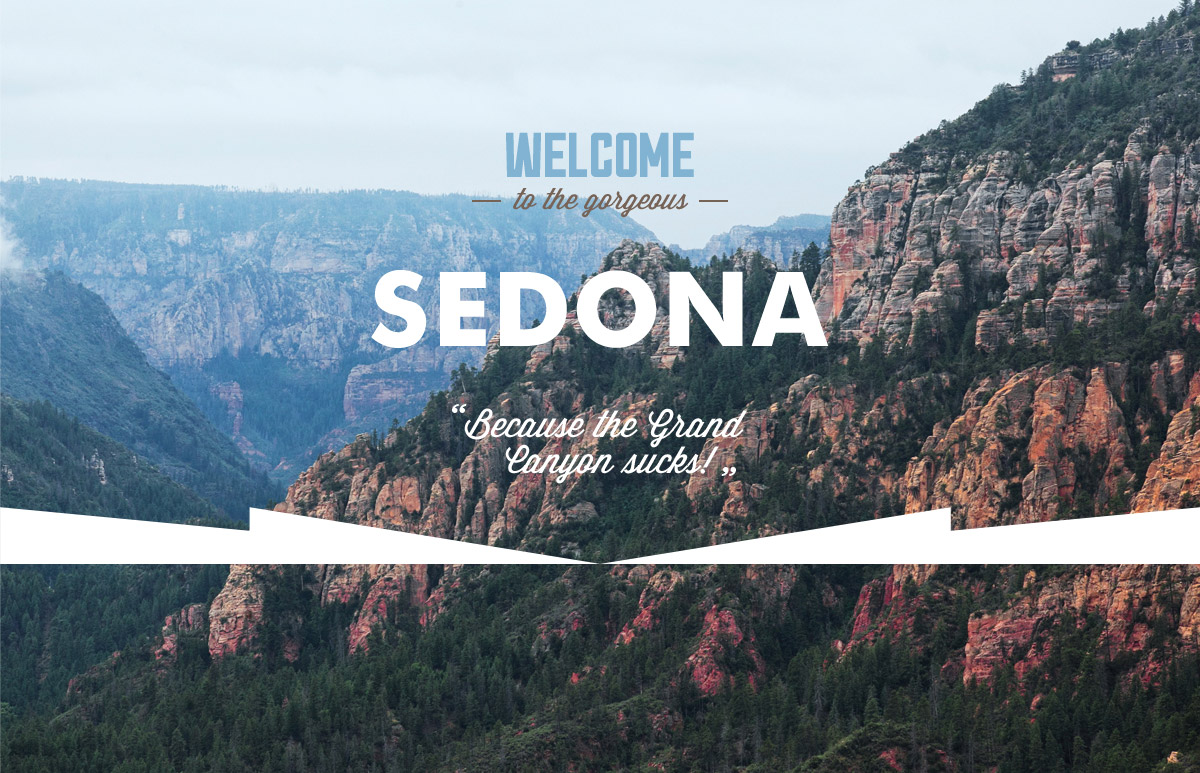
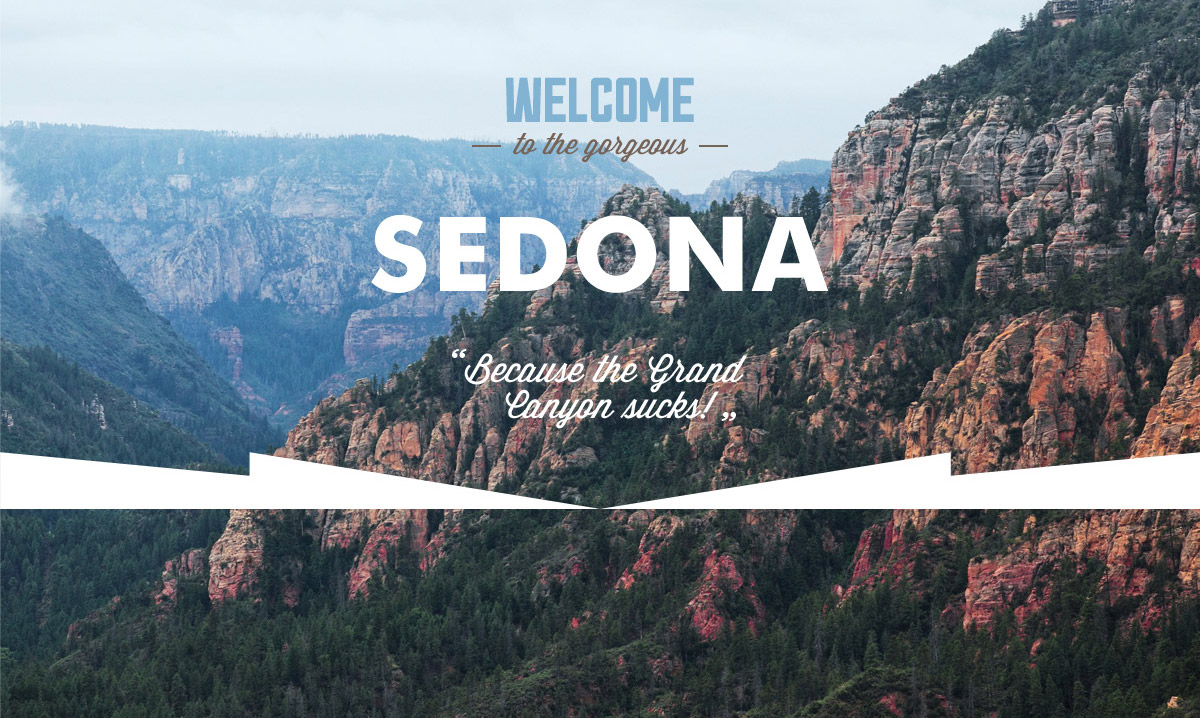
Седьмое задание

diff --git a/css/style.css b/css/style.css
@@ -117,9 +117,7 @@ main p {
 
 .site-navigation {
 	margin: 0;
-	padding-top: 13px;
-    padding-bottom: 17px;
-	padding-left: 0px;
+	padding: 14px 72px;
 	display: flex;
 	justify-content: space-between;
     line-height: 26px;
@@ -130,7 +128,6 @@ main p {
 }
 
 .site-navigation li:first-child {
-	padding-left: 72px;
 }
 
 .site-navigation li:nth-child(2) {
@@ -141,7 +138,7 @@ main p {
 	text-align: right;
 }
 
-.navigation-list li:last-child {
+.site-navigation li:last-child {
 	text-align: right;
 }
 
@@ -153,10 +150,6 @@ main p {
 	color: #000000;
 	display: block;
 	vertical-align: middle;
-}
-
-.main-navigation a {
-	position: absolute;
 }
 
 .site-navigation a:hover, .main-navigation a:hover {
@@ -173,7 +166,7 @@ main p {
 }
 
 .intro-logo {
-	min-height: 564px;
+	min-height: 508px;
 	background-image: url("../img/background-all.jpg");
 	background-repeat: no-repeat;
 	background-color: #ffffff;
@@ -443,6 +436,7 @@ main p {
 
 .hotel-search .search {
 	width: 456px;
+	padding: 15px 50px;
 	background-color: #81b3d2;
 	color: #ffffff;
 	font-size: 21px;
@@ -468,18 +462,34 @@ main p {
 }
 
 .date {
-	width: 568px;
-	height: 396px;
 	position: absolute;
+	margin-bottom: auto;
 	top: 86px;
+	padding: 55px;
 	left: 50%;
 	transform: translateX(-50%);
-	display: flex;
-	flex-wrap: wrap;
-	justify-content: space-between;
-	flex-direction: column;
 	background-color: #ffffff;
-	box-shadow: 0 0 15px 5px rgba(0, 1, 1, 0.2);
+}
+
+.date-check {
+	margin-bottom: 25px;
+	display: flex;
+	justify-content: space-between;
+	align-items: center;
+}
+
+.date-placeholder {
+	position: relative;
+}
+
+.calendar {
+	background: none;
+	box-shadow: none;
+	border: none;
+	position: absolute;
+	right: 0;
+	top: 50%;
+	transform: translateY(-50%);
 }
 
 .date input {
@@ -511,10 +521,18 @@ main p {
 .date #date-checkin, .date #date-checkout {
 	width: 330px;
 	padding-left: 14px;
+	padding-right: 38px;
 }
 
 .date p {
 	color: #000000;
+}
+
+.number {
+	margin-bottom: 55px;
+	display: flex;
+	justify-content: space-between;
+	align-items: center;
 }
 
 .number .adults, .number .children {
@@ -528,24 +546,76 @@ main p {
 }
 
 /* ===== MAIN = Hotels ===== */
+.filter {
+	display: flex;
+	flex-wrap: wrap;
+	padding: 25px 70px 0;
+}
+
+.filter fieldset {
+	margin: 0;
+	padding: 0;
+	width: 254px;
+	border: none;
+}
+
 .filters {
-	background-color: #e3f0f9;
+	width: 1200px;
+	min-height: 217px;
+	background-color: #669ec0;
 	background-image: url("../img/background-photo.jpg");
 	background-repeat: no-repeat;
+	background-position: center;
+	
 	color: #ffffff;
 }
 
-.filters li {
+.filter-list {
+	margin: 0;
+	position: relative;
 	list-style: none;
 }
 
+.filters li {
+	margin-bottom: 24px;
+}
+
 .filters legend {
+	margin-bottom: 28px;
 	font-size: 16px;
 	font-weight: bold;
 }
 
+.results-header {
+	display: flex;
+	flex-wrap: wrap;
+	margin-bottom: 30px;
+	padding: 0 70px;
+}
+
 .results-header li {
 	list-style: none;
+}
+
+.results-header .arrows {
+	padding-left: 0;
+	display: flex;
+}
+
+.arrows .btn img {
+	opacity: 0.3;
+	cursor: pointer;
+}
+
+.arrows .btn img:hover {
+	opacity: 1;
+}
+
+.results-sort-variants {
+	display: flex;
+    width: 816px;
+    vertical-align: bottom;
+    padding-top: 5px;
 }
 
 .results-sort-variants button {
@@ -577,6 +647,18 @@ main p {
 	list-style: none;
 }
 
+.hotels-list {
+	display: flex;
+    flex-direction: column;
+    padding: 0;
+}
+
+.hotel-item {
+	display: flex;
+	border-top: 1px solid #e5e5e5;
+    padding: 20px 70px 30px;
+}
+
 .site-navigation .site-navigation-current a {
 	color: #766357;
 }
@@ -605,10 +687,18 @@ main p {
 .footer-social {
 	list-style: none;
 	display: flex;
+	padding-left: 0;
 }
 
 .footer-social li {
 	margin-left: 6px;
+}
+
+.footer-social li a {
+	display: flex;
+	justify-content: center;
+	align-items: center;
+	vertical-align: middle;
 	background-color: #81b3d2;
 	width: 46px;
 	height: 48px;
@@ -618,10 +708,10 @@ main p {
 	margin-left: 0;
 }
 
-.footer-social li:hover {
+.footer-social li a:hover {
 	background-color: #669ec0;
 }
 
-.footer-social li:active {
+.footer-social li a:active {
 	background-color: #5496bd;
 } /* ===== И цвет самой иконки меняется. Как? Opacity? ===== */

diff --git a/index.html b/index.html
@@ -101,18 +101,23 @@
   	  <h2 class="title-2">Заинтересовались?</h2>
   		<p>Укажите предполагаемые даты поездки,<br>и мы покажем вам лучшие предложения гостиниц в Седоне</p>
   	<section class="hotel-search">	
-  	<button class="hotel-search-btn" type="submit">Поиск гостиницы в Седоне</button> <!--Это кнопка, верно?-->
+  	<button class="hotel-search-btn" type="submit">Поиск гостиницы в Седоне</button>
+<!-- -->  	<div class="modal modal-date state-open">
   	<form class="date" method="post" action="https://echo.htmlacademy.ru">
-  	  <p>
+  	  <div class="date-check">
   	  	<label for="date-checkin">Дата заезда:</label>
+  	  	<div class="date-placeholder">
   	  	<input id="date-checkin" type="text" name="date-checkin" value="" placeholder="24 апреля 2017">
-  	  	<img class="img-calendar" src="img/calendar.svg" width="21" height="22" alt="Календарь">
-  	  </p>
-  	  <p>
+  	  	<button class="calendar"><img class="img-calendar" src="img/calendar.svg" width="21" height="22" alt="Календарь"></button>
+  	  	</div>
+  	  </div>
+  	  <div class="date-check">
   	  	<label for="date-checkout">Дата заезда:</label>
+  	  	<div class="date-placeholder">
   	  	<input id="date-checkout" type="text" name="date-checkin" value="" placeholder="4 июля 2017">
-  	  	<img class="img-calendar" src="img/calendar.svg" width="21" height="22" alt="Календарь">
-  	  </p>
+  	  	<button class="calendar"><img class="img-calendar" src="img/calendar.svg" width="21" height="22" alt="Календарь"></button>
+		</div>
+  	  </div>
   	  <div class="number">
   	  	<label for="number-of-adults">Взрослые:</label>
   	  	  <button class="btn" name="minus-adult" type="button">-</button>
@@ -124,7 +129,8 @@
   	  	      <button class="btn" name="plus-child" type="button">+</button>
   	  </div>
   	  <button class="btn search" type="submit">Найти</button>
-  	</form>  	
+  	</form>
+<!-- -->  	</div>  	
   	</section>
   	<section class="map">
  	  <h2 class="title-2 visually-hidden">Седона на карте</h2>

diff --git a/hotels.html b/hotels.html
@@ -31,7 +31,7 @@
 	  <form class="filter" method="get" action=https://echo.htmlacademy.ru>
     <fieldset>
 	  <legend>Инфраструктура:</legend>
-	      <ul>
+	      <ul class="filter-list">
 	        <li>
 	          <input class="visually-hidden" type="checkbox" name="pool" id="filter-pool" checked>
 	          <label for="filter-pool">Бассейн</label>
@@ -49,7 +49,7 @@
 		
 	<fieldset>
 	  <legend>Тип жилья:</legend>
-	      <ul>
+	      <ul class="filter-list">
 	        <li>
 	          <input class="visually-hidden" type="checkbox" name="hotel" id="filter-hotel" checked>
 	          <label for="filter-hotel">Гостиница</label>
@@ -80,18 +80,6 @@
           <button class="btn show" type="submit">Показать</button>
         </div>
     </div>
-     
-<!--	<fieldset>
-	  <legend>Стоимость в сутки (Р):</legend>
-	      <table>
-            <tr>
-              <td>От 0</td>
-              <td>До 3000</td>
-            </tr>
-		  </table>
-		    <input type="range" name="range" min="0" max="3000"> 
-		      <button class="btn show" type="submit">Показать</button>
-	</fieldset>-->
     </form>
 	</section>
 
